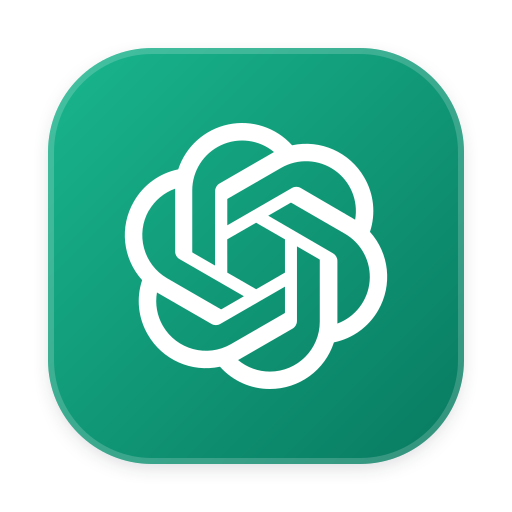
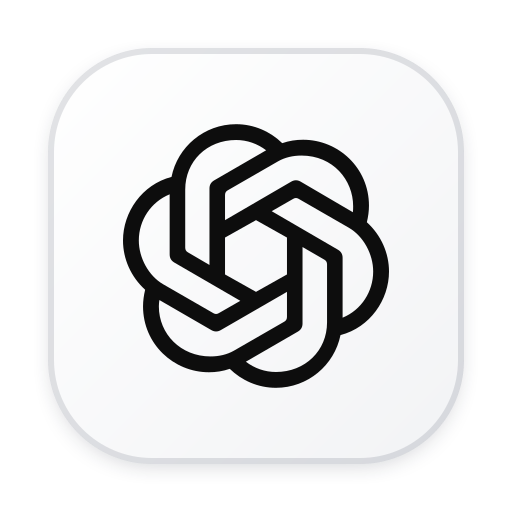
use official black and white ChatGPT mark

diff --git a/build.js b/build.js
@@ -9,7 +9,7 @@ const TILE_RADIUS = 104;
 const OUT_DIR = './icons/';
 
 const logos = [
-  { out: 'ChatGPT.png', src: 'src/openai.svg',            from: '#19B68D', to: '#087A60', scale: 0.64 },
+  { out: 'ChatGPT.png', src: 'src/openai.svg',            from: '#FFFFFF', to: '#F2F3F5', ink: '#0D0D0D', stroke: '#0F172A', strokeOpacity: 0.12, scale: 0.64 },
   { out: 'GitHub.png',  src: 'src/github.svg',            from: '#30363D', to: '#0D1117', scale: 0.66 },
   { out: 'X.png',       src: 'src/x.svg',                 from: '#303030', to: '#050505', scale: 0.58 },
   { out: 'Reddit.png',  src: 'src/reddit.svg',            from: '#FF6A36', to: '#FF4500', scale: 0.68 },
@@ -70,8 +70,11 @@ async function makeShadow() {
 async function makeLogo(icon, shadow) {
   const raw = fs.readFileSync(icon.src, 'utf8');
   const logoSize = Math.round(TILE_SIZE * icon.scale);
-  const logo = await sharp(Buffer.from(monochrome(raw, '#FFFFFF')), { density: 600 })
-    .resize(logoSize, logoSize, { fit: 'contain' })
+  const logo = await sharp(Buffer.from(monochrome(raw, icon.ink || '#FFFFFF')), { density: 600 })
+    .resize(logoSize, logoSize, {
+      fit: 'contain',
+      background: { r: 0, g: 0, b: 0, alpha: 0 },
+    })
     .png()
     .toBuffer();
 
@@ -80,7 +83,7 @@ async function makeLogo(icon, shadow) {
   })
     .composite([
       { input: shadow },
-      { input: tileSvg(icon.from, icon.to, '#FFFFFF', 0.18) },
+      { input: tileSvg(icon.from, icon.to, icon.stroke || '#FFFFFF', icon.strokeOpacity ?? 0.18) },
       { input: logo, gravity: 'center' },
     ])
     .png()
